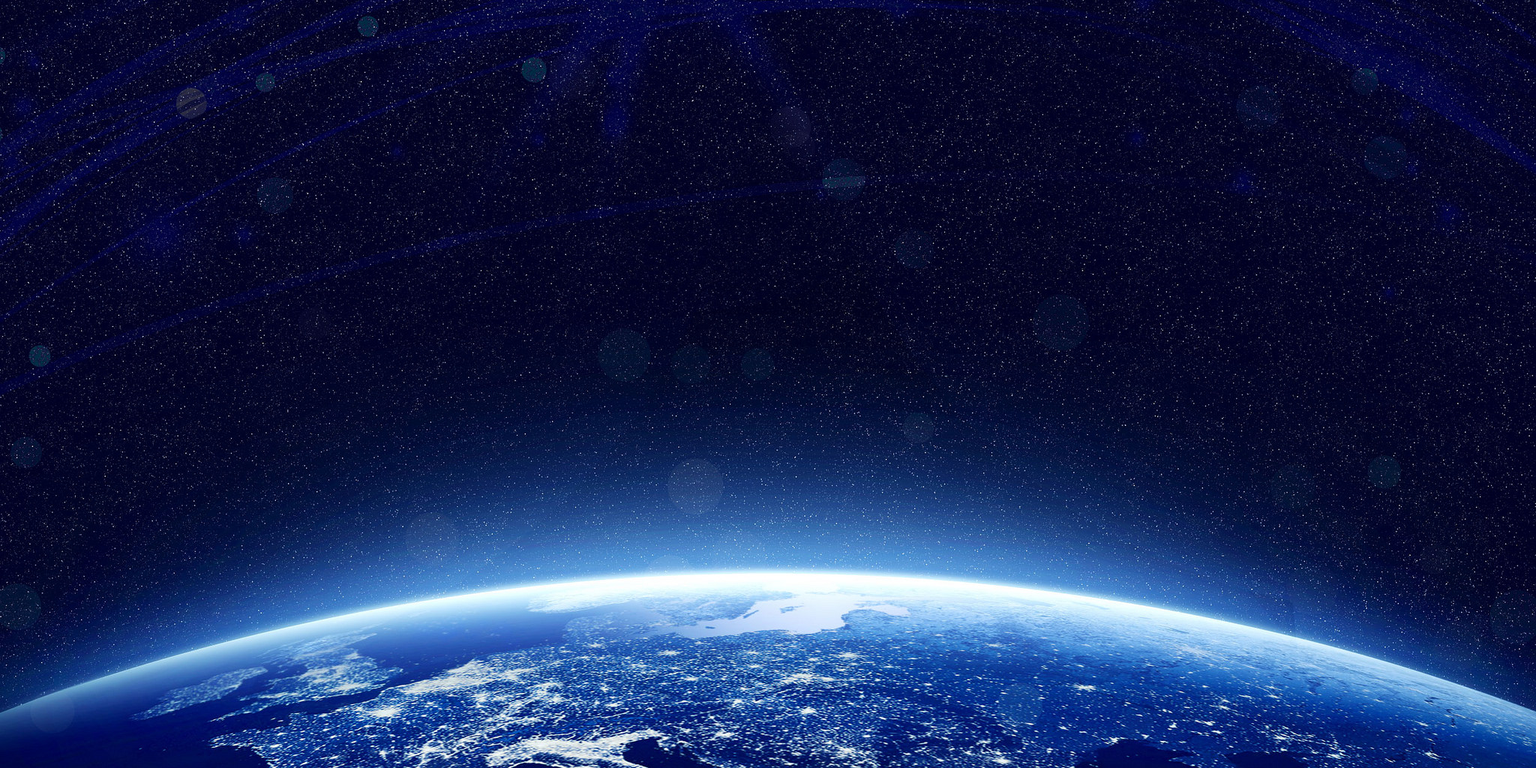
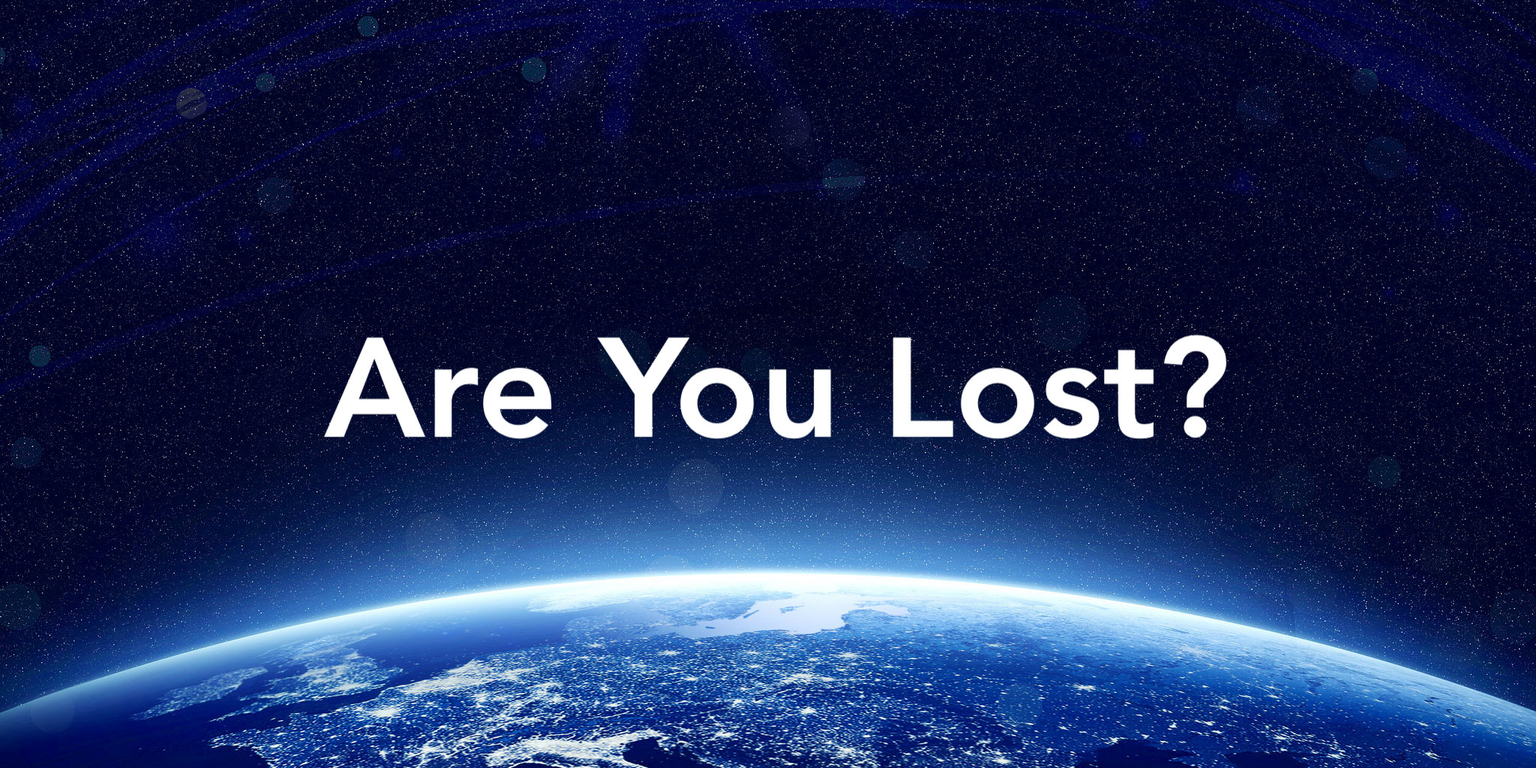
added 404 page

Changed region(s): [[0.1875, 0.4375, 0.8125, 0.5938]]

diff --git a/src/App.js b/src/App.js
@@ -5,6 +5,7 @@ import history from './utils/history';
 
 import Checkout from './components/Checkout';
 import Flights from './components/Flights';
+import FourOhFour from './components/404';
 import LowFares from './components/LowFares';
 import NavBar from './components/NavBar';
 import PrivateRoute from './components/PrivateRoute';
@@ -32,6 +33,7 @@ function App() {
                 path="/profile/:customerId"
                 render={(props) => <Profile {...props} />}
               />
+              <Route component={FourOhFour} />
             </Switch>
           </Router>
         </Box>

diff --git a/src/components/404.js b/src/components/404.js
@@ -1,0 +1,9 @@
+import React, { useContext } from 'react';
+import { ResponsiveContext } from 'grommet';
+
+const FourOhFour = () => {
+  const size = useContext(ResponsiveContext);
+  return <>{size !== 'small' ? <div className="four_oh_four"></div> : null}</>;
+};
+
+export default FourOhFour;

diff --git a/src/index.css b/src/index.css
@@ -15,6 +15,14 @@ body {
   height: 100%;
 }
 
+.four_oh_four {
+  background-image: url('./images/earthRise.jpg');
+  background-size: 100%;
+  background-repeat: no-repeat;
+  width: 100%;
+  height: 100%;
+}
+
 .button_hover:hover {
   color: #ff4040;
 }
